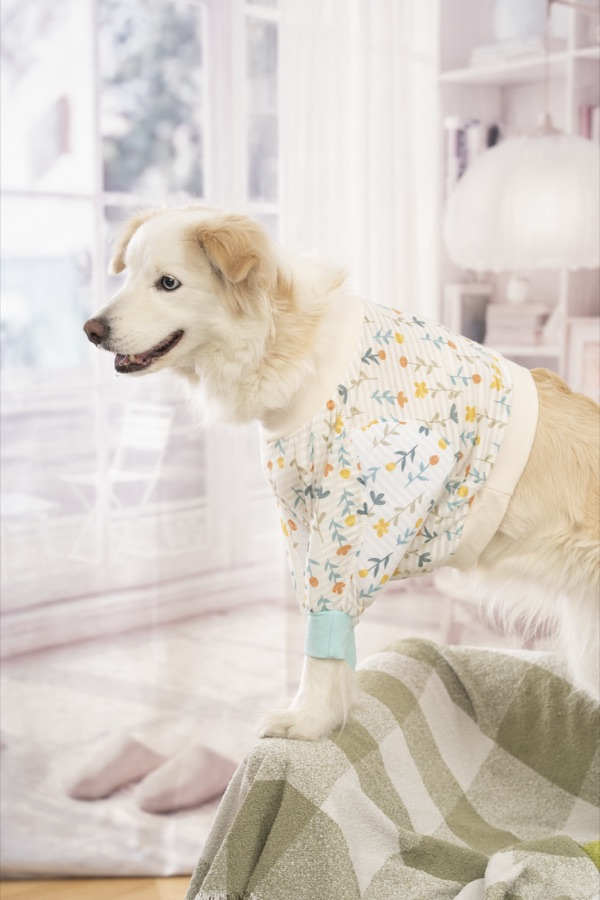
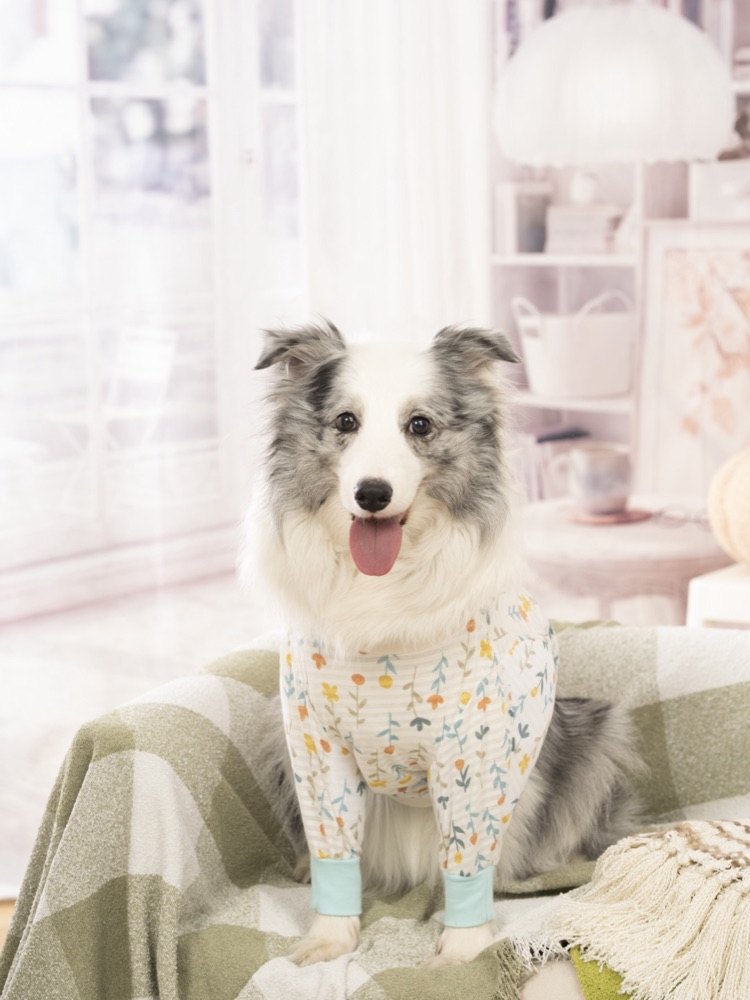
Swap cooling suit teaser to front-facing 3:4 photo showing sleeve coverage

diff --git a/index.html b/index.html
@@ -85,7 +85,7 @@ footer{border-top:1px solid var(--line);padding:26px 0;color:var(--sub);font-siz
 .lines-grid .prop{display:flex;flex-direction:column;justify-content:center}
 @media(max-width:800px){.lines-grid{flex-direction:column}}
 .line-card{flex:1.2;background:var(--card);border:1px solid var(--line);border-radius:14px;overflow:hidden;display:flex;flex-direction:column}
-.line-card img{width:100%;aspect-ratio:4/3;object-fit:cover;object-position:center 30%}
+.line-card img{width:100%;aspect-ratio:3/4;object-fit:cover}
 .line-card .line-meta{padding:16px 18px}
 .line-card h3{font-size:17px;color:var(--accent);margin-bottom:6px}
 .line-card p{font-size:14px;color:var(--sub)}